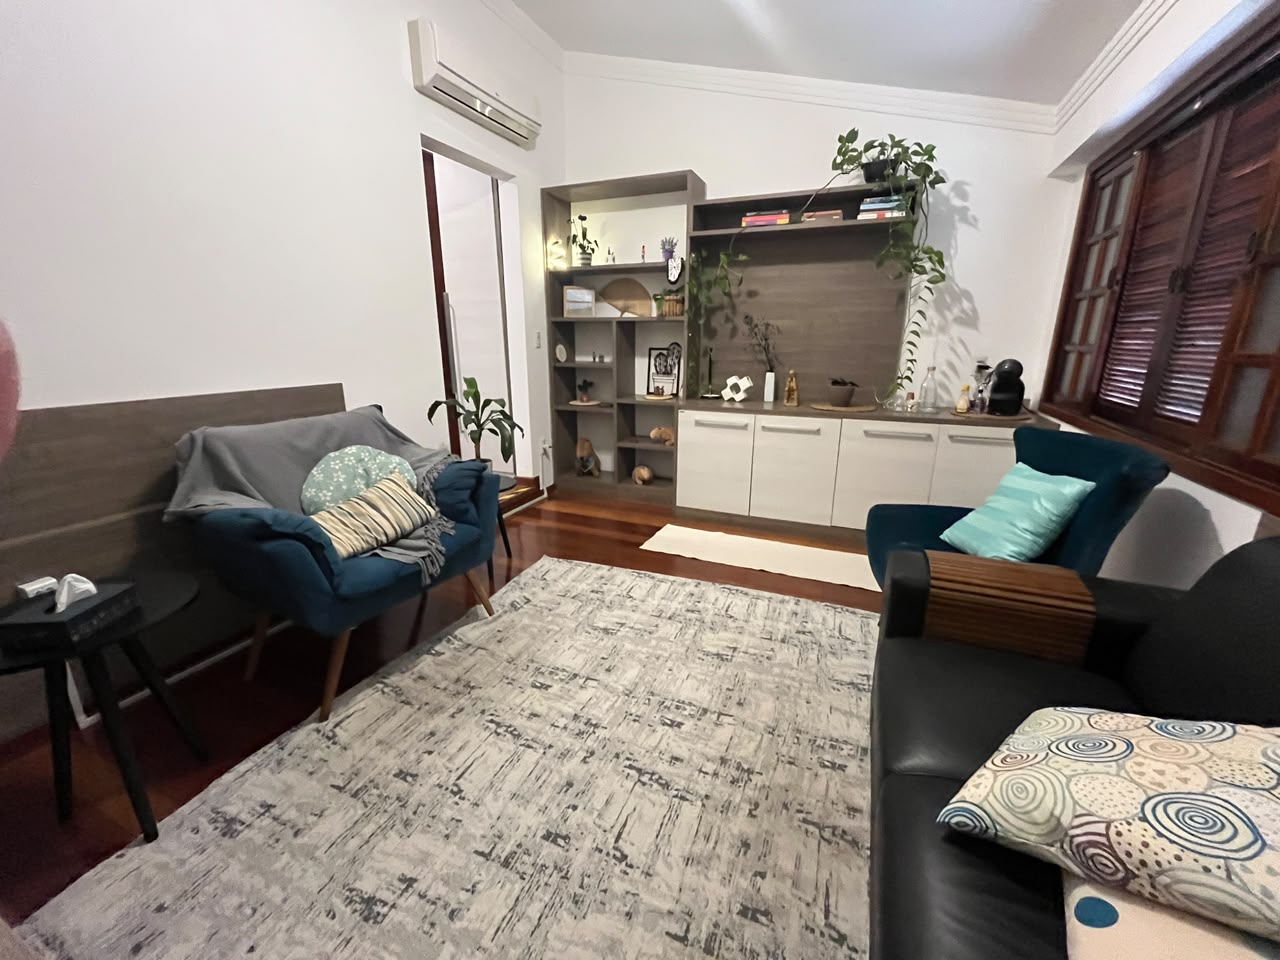
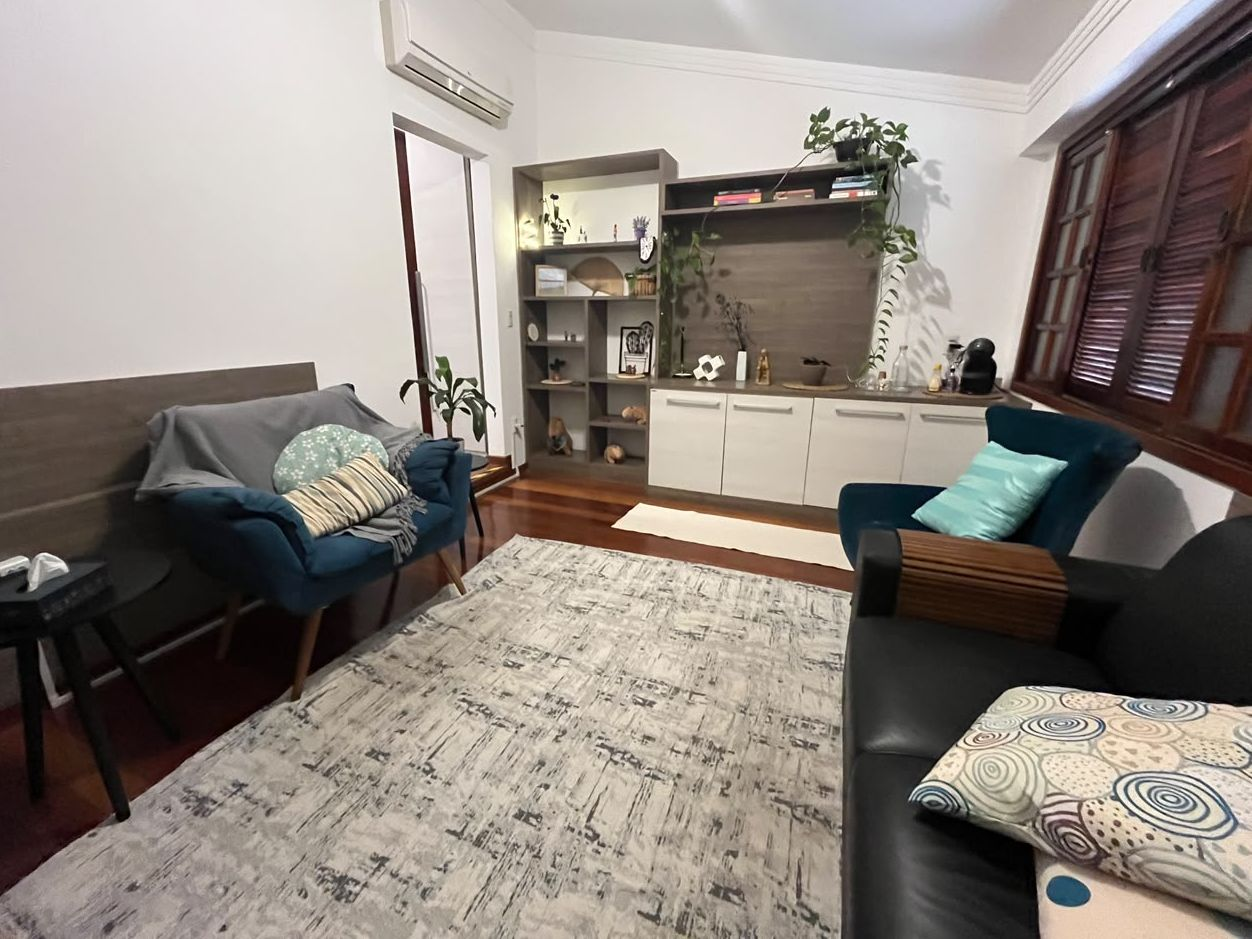
aplica ajustes finais de feedback: remove card 'Atuando desde 2018', ajusta negritos, renomeia carrossel com link do ITB, corrige fotos, fecha pergunta no faq e justifica texto do Sobre.

diff --git a/index.html b/index.html
@@ -61,7 +61,7 @@
   </header>
 
   <main id="conteudo-principal">
-    <!-- ===================== SOBRE ===================== -->
+    <!-- ========================== SOBRE ============================ -->
     <section id="sobre" class="sobre" aria-labelledby="sobre-heading">
       <div class="container sobre__inner">
         <div class="sobre__media">
@@ -69,17 +69,12 @@
             <div class="sobre__photo-frame">
               <img
                 src="assets/img/tariane-2.jpeg"
-                alt="Retrato de Tariane, psicóloga, sorrindo abertamente, vestindo blusa azul-marinho, em fundo neutro"
+                alt="Retrato de Tariane, psicóloga"
                 class="sobre__photo"
                 width="480"
                 height="640"
               />
             </div>
-
-            <p class="sobre__quote-card" aria-hidden="true">
-              <span class="sobre__quote-star">✦</span>
-              <span class="sobre__quote-text">Atuando desde 2018</span>
-            </p>
           </div>
         </div>
         <div class="sobre__content">
@@ -132,7 +127,7 @@
       </div>
     </section>
 
-    <!-- ===================== ATUAÇÃO E FORMAÇÃO ===================== -->
+    <!-- ========================= ATUAÇÃO E FORMAÇÃO ====================== -->
     <section id="atuacao" class="atuacao" aria-labelledby="atuacao-heading">
       <div class="container">
         <h2 id="atuacao-heading">Atuação e Formação</h2>
@@ -142,7 +137,7 @@
             <h3 class="card__title">Formação</h3>
             <ul class="card__list" role="list">
               <li>Psicóloga — CRP 06/138426</li>
-              <li><strong>Mestre em Psicologia pela UNESP/Bauru</strong></li>
+              <li>Mestre em Psicologia pela UNESP/Bauru</li>
             </ul>
           </li>
 
@@ -198,7 +193,7 @@
         <h2 id="faq-heading">Perguntas Frequentes</h2>
 
         <div class="faq__list">
-          <details class="faq__item" open>
+          <details class="faq__item">
             <summary class="faq__question">
               <span>Como sei se é o momento de começar a psicoterapia?</span>
               <span class="faq__icon" aria-hidden="true"></span>
@@ -332,7 +327,7 @@
         </div>
 
         <div class="localizacao__fotos">
-          <p class="localizacao__fotos-heading">Um pouco do espaço de atendimento</p>
+          <p class="localizacao__fotos-heading">Conheça nosso espaço</p>
 
           <div class="carousel" id="consultorio-carousel">
             <div class="carousel__track">
@@ -384,6 +379,16 @@
               ></button>
             </div>
           </div>
+
+          <a
+            href="https://www.institutotherapiebauru.com.br"
+            class="btn btn--primary btn--sm localizacao__fotos-link"
+            target="_blank"
+            rel="noopener noreferrer"
+            aria-label="Site do Instituto Therapie Bauru (abre em nova aba)"
+          >
+            Instituto Therapie Bauru
+          </a>
         </div>
       </div>
     </section>
@@ -478,7 +483,7 @@
                 target="_blank"
                 rel="noopener noreferrer"
               >
-                <img src="assets/instagram/post1.png" alt="Postagem do Instagram: retrato de Tariane sorrindo, de blusa azul-marinho, ao lado do texto “Conheça meu currículo — Psicologia com propósito, ciência e acolhimento”" loading="lazy" />
+                <img src="assets/instagram/post1.png" alt="Postagem do Instagram: “Conheça meu currículo”" loading="lazy" />
                 <span class="instagram-card__overlay" aria-hidden="true">Ver no Instagram</span>
                 <span class="sr-only">(abre em nova aba)</span>
               </a>
@@ -498,7 +503,7 @@
                 target="_blank"
                 rel="noopener noreferrer"
               >
-                <img src="assets/instagram/post3.png" alt="Postagem do Instagram com o texto “Porque resolvi me especializar em DOR”, sobre uma mesa branca com notebook e café" loading="lazy" />
+                <img src="assets/instagram/post3.png" alt="Postagem do Instagram com o texto “Porque resolvi me especializar em DOR” " loading="lazy" />
                 <span class="instagram-card__overlay" aria-hidden="true">Ver no Instagram</span>
                 <span class="sr-only">(abre em nova aba)</span>
               </a>

diff --git a/assets/css/style.css b/assets/css/style.css
@@ -132,6 +132,11 @@ section {
   color: var(--branco);
 }
 
+.btn--sm {
+  font-size: var(--fs-sm);
+  padding: 0.5rem 1.1rem;
+}
+
 /* ---- Header / Navegação ---- */
 
 .site-header {
@@ -271,12 +276,9 @@ section {
   align-items: center;
 }
 
-/* Composição visual do retrato: moldura orgânica assimétrica + arco parcial
-   decorativo atrás + cartão de assinatura sobreposto num dos cantos.
-   Deslocamentos negativos ficam <= 1rem para nunca ultrapassar o padding
-   lateral do .container (1rem) e não gerar scroll horizontal no mobile. */
+/* Composição visual do retrato: moldura orgânica assimétrica, centrada e
+   com largura limitada para acompanhar a coluna de texto ao lado. */
 .sobre__visual {
-  position: relative;
   max-width: 26rem;
   margin-inline: auto;
 }
@@ -300,34 +302,13 @@ section {
   object-position: center top;
 }
 
-.sobre__quote-card {
-  position: absolute;
-  z-index: 2;
-  left: -0.75rem;
-  bottom: -1rem;
-  display: flex;
-  align-items: center;
-  gap: 0.4rem;
-  max-width: 11rem;
-  background-color: var(--branco);
-  padding: 0.65rem 1rem;
-  border-radius: 1rem 1rem 1rem 0.25rem;
-  box-shadow: 0 0.5rem 1.25rem rgba(91, 85, 79, 0.22);
-}
-
-.sobre__quote-star {
-  flex-shrink: 0;
-  color: var(--terracota);
-  font-size: 0.9rem;
-  line-height: 1;
-}
-
-.sobre__quote-text {
-  font-style: italic;
-  font-weight: 600;
-  font-size: var(--fs-sm);
-  line-height: 1.2;
-  color: var(--color-heading);
+/* Bio justificada, como pedido pela profissional. Fica de fora a .assinatura (tem <br>, e a
+   linha antes da quebra sairia esticada) e a .credencial, de uma linha só.
+   hyphens: auto usa o lang="pt-BR" do documento para quebrar as palavras e
+   evitar os "rios" de espaço que a justificação abre em telas estreitas. */
+.sobre__content p:not(.assinatura):not(.credencial) {
+  text-align: justify;
+  hyphens: auto;
 }
 
 .credencial {
@@ -378,7 +359,7 @@ section {
   background-color: var(--terracota);
 }
 
-/* ---- Perguntas frequentes (acordeão com <details>) ---- */
+/* ---- Perguntas frequentes (com <details>) ---- */
 
 .eyebrow {
   margin-bottom: var(--space-xs);
@@ -674,8 +655,8 @@ section {
 }
 
 /* #25D366 (verde oficial do WhatsApp) com texto branco dá só ~2:1 de
-   contraste — falha o mínimo de 4.5:1 do WCAG AA. Usamos um verde mais
-   escuro dentro da mesma família de matiz (~4.6:1), que continua sendo
+   contraste falha o mínimo de 4.5:1 do WCAG AA. Então usei um verde mais
+   escuro dentro da mesma família de mattiz (~4.6:1), que continua sendo
    reconhecido como "verde do WhatsApp" mas passa em contraste. */
 .btn-pill--whatsapp {
   background-color: #188640;
@@ -701,13 +682,14 @@ section {
 
 /* Branco sobre terracota (#AF774D) dá ~3.77:1 — abaixo do mínimo de 4.5:1
    do WCAG AA para texto normal, mas acima do mínimo de 3:1 para texto
-   grande (>= 24px, como aqui). Por isso o tamanho generoso não é só
-   estético: é o que garante a conformidade AA desse texto. */
+   grande. Sem negrito, o limite de "texto grande" passa a ser 24px: o
+   --fs-2xl (28px) mantém a conformidade AA, então o tamanho aqui não é
+   só estético — não reduzir. */
 .localizacao__fotos-heading {
   color: var(--branco);
   font-family: var(--font-primary);
   font-size: var(--fs-2xl);
-  font-weight: 600;
+  font-weight: 400;
   line-height: var(--lh-heading);
   text-align: center;
   margin-bottom: var(--space-md);
@@ -805,6 +787,14 @@ section {
 .carousel__dot:hover,
 .carousel__dot:focus-visible {
   background-color: var(--branco);
+}
+
+/* Link do Instituto sobre o fundo terracota: texto pequeno em branco sobre
+   --terracota daria só ~3.77:1, então o botão usa o fundo --cinza-escuro
+   (~7.35:1 com branco), como as demais chamadas do site. */
+.localizacao__fotos-link {
+  align-self: center;
+  margin-top: var(--space-md);
 }
 
 /* ---- Footer ---- */
